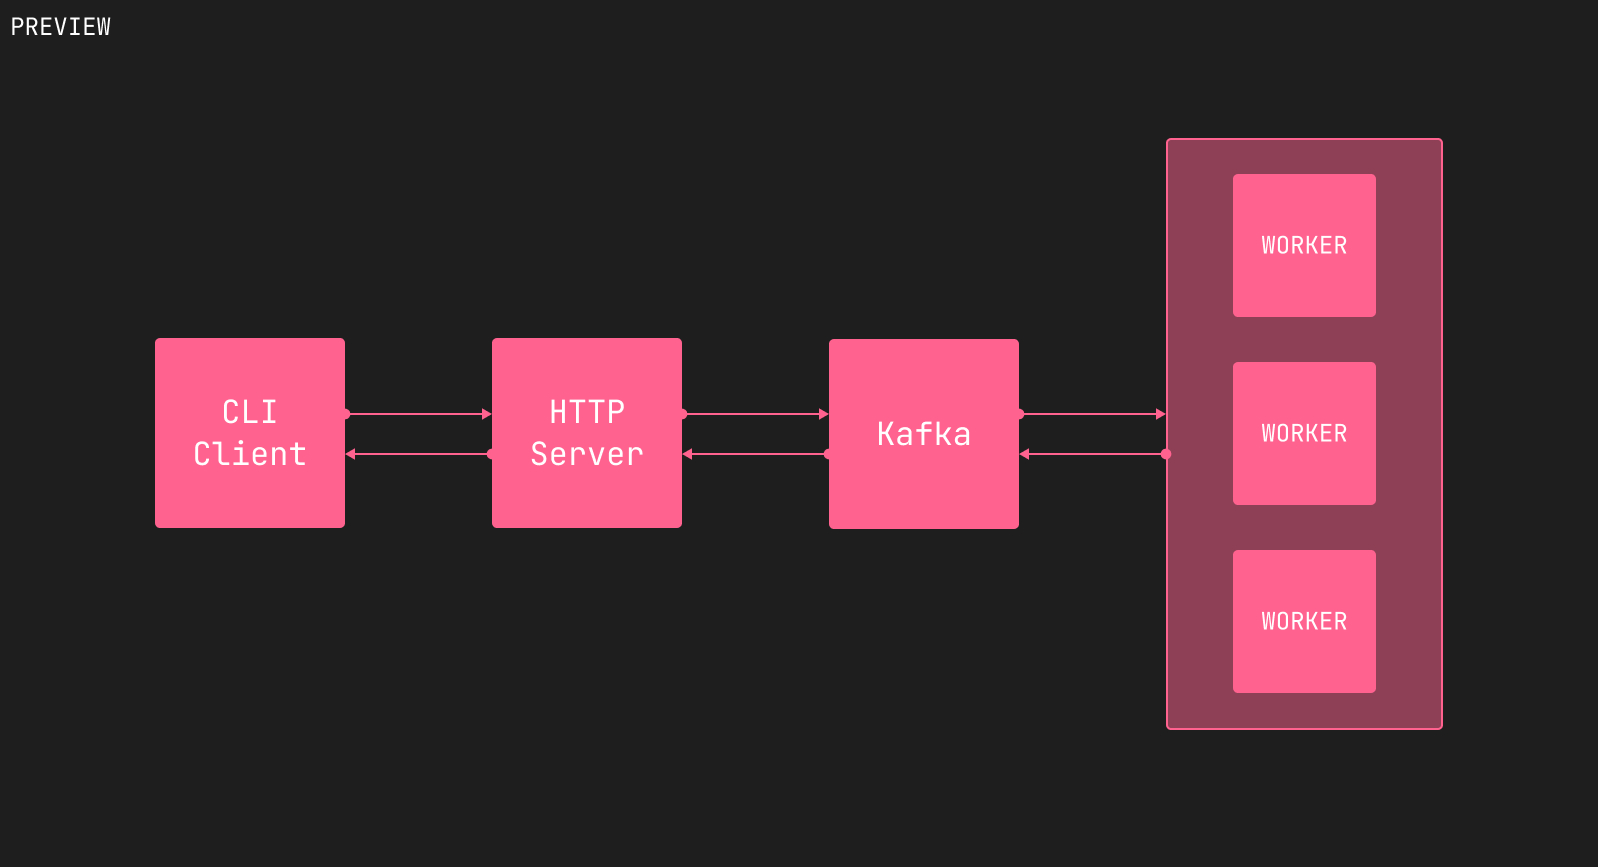
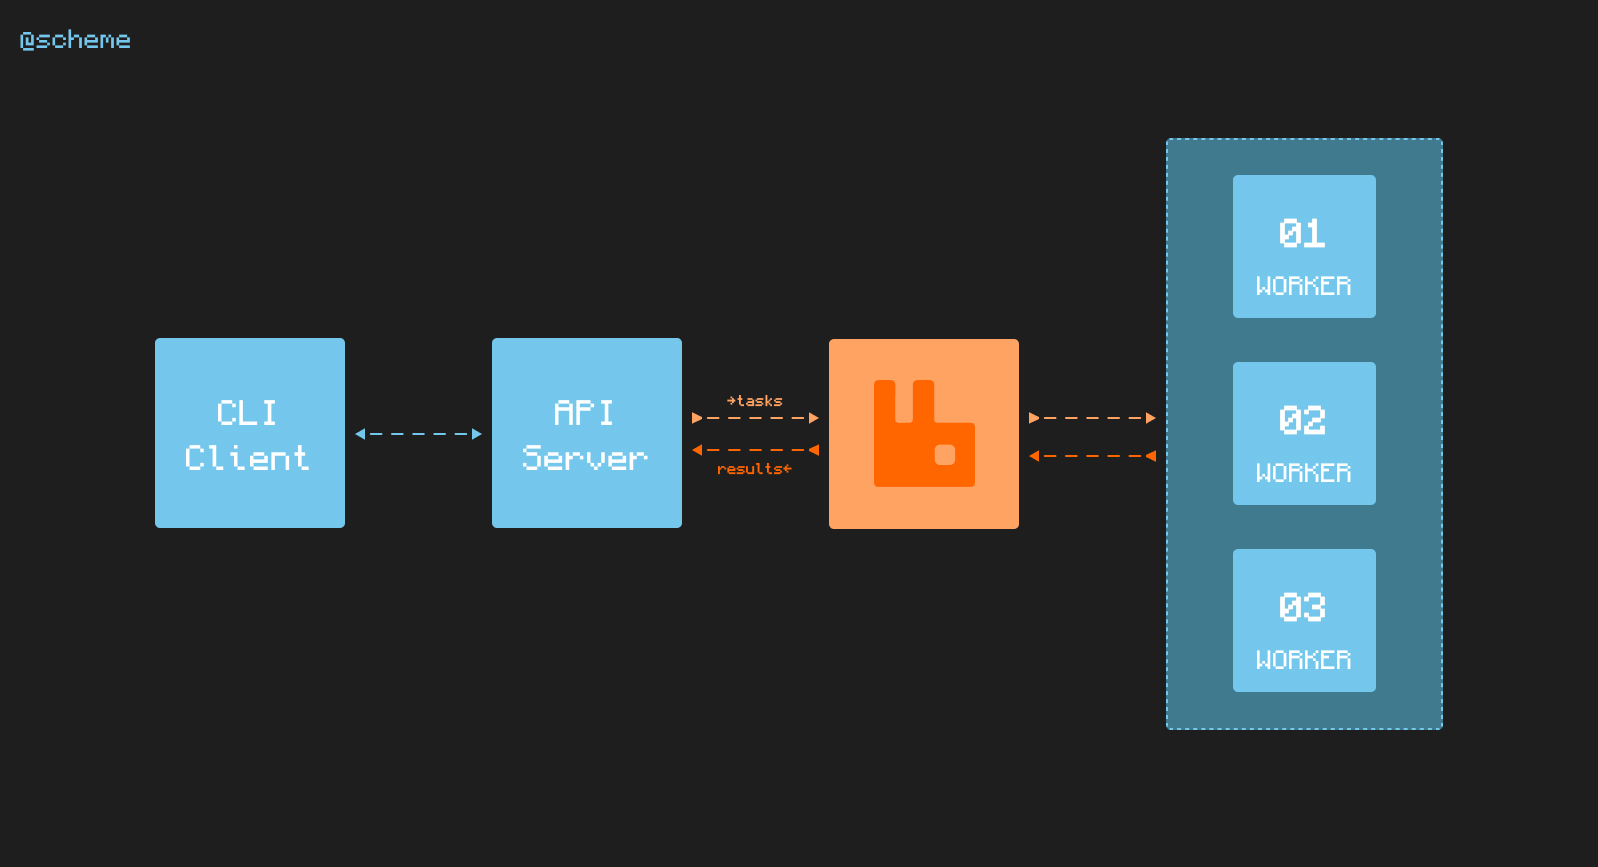
feat: setup rabbitmq

Changed region(s): [[0.092, 0.1557, 0.9199, 0.8408], [0.0, 0.0, 0.092, 0.0623]]

diff --git a/README.md b/README.md
@@ -6,7 +6,7 @@ Task's queue system design, implemented with Golang and RabbitMQ
 
 ## Todo
 
-- [ ] Replace scheme's Kafka with RabbitMQ
+- [X] Replace scheme's Kafka with RabbitMQ
 - [ ] Implement simple N Workers
 - [ ] Connect workers to RabbitMQ
 - [ ] Create API for task submission
